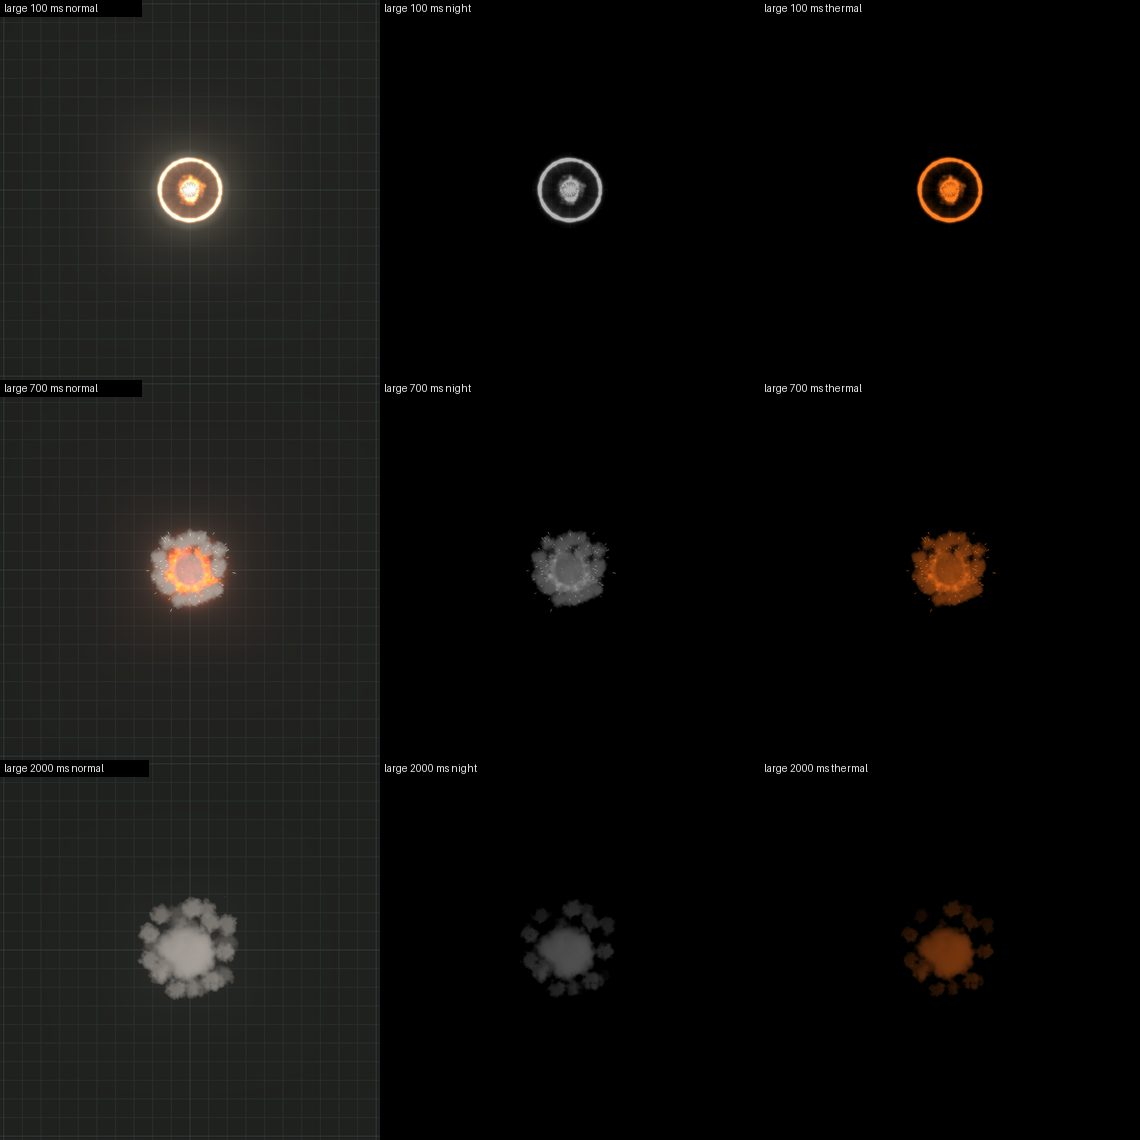
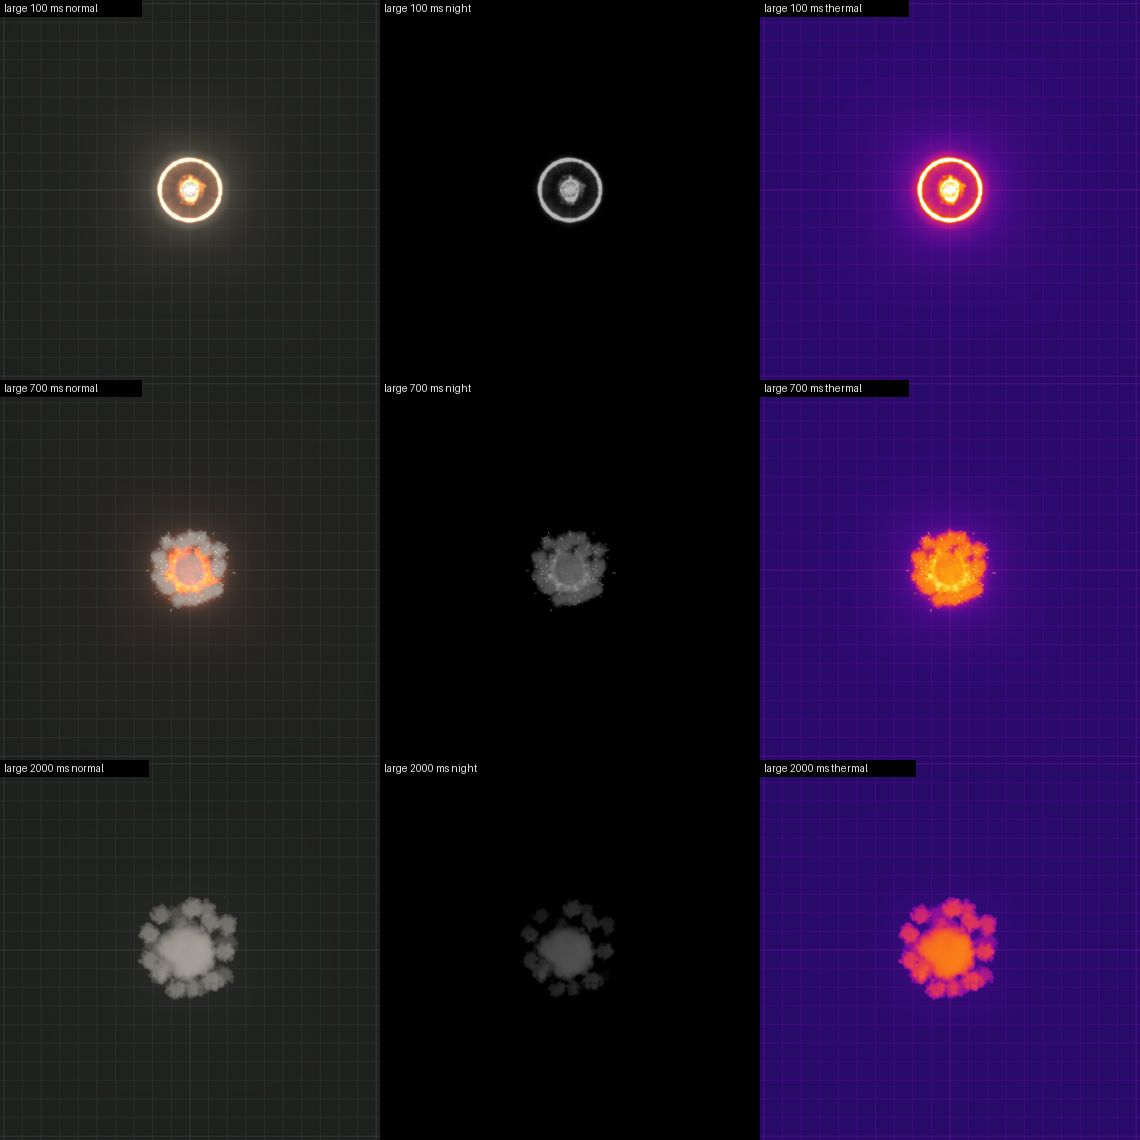
Load scenarios with nuclear finale; FLIR ironbow thermal view
Scenarios: strafe, strafe + M + L, barrage and a 28 s finale ending in the
orbital strike, seeded per shot, with lab.advance() for deterministic frames.
Thermal view now an SVG ironbow colour table on luminance; the game's sepia
chain is kept as 'game thermal'. GitHub Pages ready (.nojekyll).

Claude-Session: https://claude.ai/code/session_01NPKBkaazhQN4ymj5QwUNgW

diff --git a/lab/main.js b/lab/main.js
@@ -6,11 +6,15 @@ import { RenderPass } from 'three/addons/postprocessing/RenderPass.js';
 import { UnrealBloomPass } from 'three/addons/postprocessing/UnrealBloomPass.js';
 import { OutputPass } from 'three/addons/postprocessing/OutputPass.js';
 import { CANDIDATES } from './candidates.js';
+import { SCENARIOS } from './scenarios.js';
+import { mulberry32 } from '../explosions/common.js';
 
 const FILTERS = {
   normal: 'none',
   night: 'grayscale(1) brightness(0.62) contrast(1.7)',
-  thermal: 'grayscale(1) brightness(0.5) contrast(1.6) sepia(1) saturate(5) hue-rotate(-18deg)',
+  // FLIR ironbow: luminance through an SVG colour table (index.html #flir)
+  thermal: 'url(#flir)',
+  'thermal-game': 'grayscale(1) brightness(0.5) contrast(1.6) sepia(1) saturate(5) hue-rotate(-18deg)',
 };
 const GUN_FOV = { rotary: 23.1, bofors: 31.5, howitzer: 46.2 };
 const SIZES = ['small', 'medium', 'large', 'nuclear'];
@@ -174,22 +178,66 @@ function pose(size, tMs, seed = state.seed) {
   return fx;
 }
 
-// Load test: rotary fire keeps 12 smalls alive, plus 1 medium and 1 large.
-const load = { rand: 1000, acc: { small: 0, medium: 0, large: 0 } };
-const LOAD_PERIOD = { small: 0.4 / 12, medium: 1.2, large: 3 };
+// Load scenarios (lab/scenarios.js). Shot positions come from a per-shot seed,
+// so a scenario replays identically.
+const run = { id: null, t: 0, acc: [], fired: [], n: 0 };
+
+function startScenario(id) {
+  Object.assign(run, { id, t: 0, acc: [], fired: [], n: 0 });
+}
+
+function fire(e, t) {
+  const seed = 10000 + run.n++;
+  const [x, z] = e.pos(t, mulberry32(seed));
+  spawn(e.size, x, z, seed);
+}
+
 function runLoad(dt) {
-  const kinds = state.load === 'small' ? ['small'] : ['small', 'medium', 'large'];
-  for (const k of kinds) {
-    load.acc[k] += dt;
-    while (load.acc[k] >= LOAD_PERIOD[k] || (k !== 'small' && !live.some((e) => e.size === k))) {
-      load.acc[k] = Math.max(0, load.acc[k] - LOAD_PERIOD[k]);
-      const r = moduleFor('small') ? load.rand++ : 0;
-      const a = (r * 2.39996) % (Math.PI * 2);
-      const dist = 10 + (r * 7.31) % 50;
-      spawn(k, Math.cos(a) * dist, Math.sin(a) * dist, r);
-      if (k !== 'small') break;
+  const sc = SCENARIOS[state.load];
+  if (!sc) return;
+  if (run.id !== state.load) startScenario(state.load);
+  run.t += dt;
+  sc.emitters.forEach((e, i) => {
+    if (e.at !== undefined) {
+      if (!run.fired[i] && run.t >= e.at) { run.fired[i] = true; fire(e, e.at); }
+      return;
     }
+    if (run.t < (e.from ?? 0) || run.t >= (e.to ?? Infinity)) return;
+    const period = 1 / e.rate;
+    run.acc[i] = (run.acc[i] ?? period) + dt;
+    while (run.acc[i] >= period) {
+      run.acc[i] -= period;
+      const t = run.t - run.acc[i];
+      if (!e.gate || e.gate(t)) fire(e, t);
+    }
+  });
+  if (sc.duration && run.t >= sc.duration) {
+    state.load = 'off';
+    run.id = null;
+    syncButtons();
   }
+}
+
+function reap(dt) {
+  for (let i = live.length - 1; i >= 0; i--) {
+    const e = live[i];
+    e.fx.tick(dt);
+    if (!e.fx.alive()) { e.fx.dispose(); live.splice(i, 1); }
+  }
+}
+
+// Run a scenario forward to `seconds` without rendering, then pause: a
+// deterministic frame of a busy scene for screenshots.
+function advance(id, seconds, step = 1 / 60) {
+  clearAll();
+  state.load = id;
+  startScenario(id);
+  for (let s = 0; s + step / 2 < seconds; s += step) {
+    runLoad(step);
+    reap(step);
+  }
+  state.paused = true;
+  syncButtons();
 }
 
 // ------------------------------------------------------------------ loop
@@ -210,11 +258,7 @@ function frame(now) {
 
   const c0 = performance.now();
   if (state.load !== 'off' && dt > 0) runLoad(dt);
-  for (let i = live.length - 1; i >= 0; i--) {
-    const e = live[i];
-    e.fx.tick(dt);
-    if (!e.fx.alive()) { e.fx.dispose(); live.splice(i, 1); }
-  }
+  reap(dt);
   updateCameras();
   renderPass.camera = activeCam();
   renderer.info.reset();
@@ -244,7 +288,7 @@ function drawHud() {
     `fps ${fps.toFixed(0).padStart(3)}   frame ${mean(samples.frame).toFixed(2)} ms`,
     `work ${mean(samples.cpu).toFixed(2)} ms${state.syncGpu ? ' (GPU synced)' : ' (CPU submit)'}`,
     `draws ${info.render.calls} (fx ${fxDraws})  tris ${info.render.triangles}  lines ${info.render.lines}`,
-    `alive S${counts.small} M${counts.medium} L${counts.large} N${counts.nuclear}`,
+    `alive S${counts.small} M${counts.medium} L${counts.large} N${counts.nuclear}   load ${state.load}${state.load !== 'off' ? ` ${run.t.toFixed(1)} s` : ''}`,
     `geometries ${info.memory.geometries}  programs ${info.programs.length}`,
     state.view === 'top'
       ? `seat ${state.gun} ${GUN_FOV[state.gun]}°  frame ${frameH.toFixed(0)} m  ${pxPerM.toFixed(2)} px/m`
@@ -310,7 +354,7 @@ h2('Seed');
   r.append(ui.seed, fixed);
 }
 
-group('View filter  (1 2 3)', 'filter', [['normal', 'normal'], ['night', 'night'], ['thermal', 'thermal']]);
+group('View filter  (1 2 3 4)', 'filter', [['normal', 'normal'], ['night', 'night'], ['thermal', 'thermal FLIR'], ['thermal-game', 'game thermal']]);
 group('Camera  (T G)', 'view', [['top', 'seat 340 m'], ['ground', 'ground 2 m']]);
 group('Gun zoom (seat)', 'gun', [['rotary', 'rotary 23°'], ['bofors', 'bofors 32°'], ['howitzer', '105 46°']]);
 group('Ground distance  (drag to look)', 'groundDist', [[30, '30 m'], [80, '80 m'], [150, '150 m'], [300, '300 m']]);
@@ -353,7 +397,11 @@ function showMeta() {
   }
 }
 
-group('Load test', 'load', [['off', 'off'], ['small', '12 S'], ['full', '12 S + M + L']], () => { if (state.load === 'off') clearAll(); });
+group('Load test', 'load', [['off', 'off'], ...Object.entries(SCENARIOS).map(([id, sc]) => [id, sc.label])], () => {
+  run.id = null;
+  state.paused = false;
+  if (state.load === 'off') clearAll();
+});
 group('Bloom tier', 'bloomTier', [['desktop', 'desktop'], ['phone', 'phone ½ mips']], resize);
 group('Render scale', 'renderScale', [[1, '1'], [0.5, '0.5']], resize);
 group('Planet', 'planetR', [[0, 'flat'], [753, 'R 753 m']], clearAll);
@@ -390,8 +438,8 @@ async function measure() {
   };
   report('measuring… (≈14 s)');
   const base = await sample('off');
-  const small = await sample('small');
-  const full = await sample('full');
+  const small = await sample('bench-small');
+  const full = await sample('bench-full');
   Object.assign(state, saved);
   clearAll();
   syncButtons();
@@ -454,14 +502,14 @@ canvas.addEventListener('pointerup', (e) => {
 });
 addEventListener('keydown', (e) => {
   if (e.target.tagName === 'INPUT') return;
-  const map = { 1: ['filter', 'normal'], 2: ['filter', 'night'], 3: ['filter', 'thermal'], t: ['view', 'top'], g: ['view', 'ground'] };
+  const map = { 1: ['filter', 'normal'], 2: ['filter', 'night'], 3: ['filter', 'thermal'], 4: ['filter', 'thermal-game'], t: ['view', 'top'], g: ['view', 'ground'] };
   if (map[e.key]) state[map[e.key][0]] = map[e.key][1];
   if (e.key === ' ') { state.paused = !state.paused; e.preventDefault(); }
   syncButtons();
 });
 
 // Automation hooks for screenshots and scripted checks.
-window.lab = { state, spawn, pose, clearAll, measure, leakTest, syncButtons, resize, renderer, live };
+window.lab = { state, spawn, pose, advance, clearAll, measure, leakTest, syncButtons, resize, renderer, live, run };
 
 showMeta();
 syncButtons();

diff --git a/lab/scenarios.js b/lab/scenarios.js
@@ -1,0 +1,66 @@
+// Load-test scenarios. An emitter fires a size either at a rate (shots per
+// second, between `from` and `to`, optionally gated into bursts) or once `at`
+// a time. `pos(t, rand)` returns the impact [x, z] for a shot fired at t; rand
+// is seeded per shot, so a scenario replays identically.
+
+const jitter = (r, m) => (r() + r() - 1) * m;
+
+// An aim point that drifts like a gunner tracking along the ground.
+const track = (ax, fx, az, fz, phase = 0, spread = 2.5) => (t, r) => [
+  ax * Math.sin(fx * t + phase) + jitter(r, spread),
+  az * Math.sin(fz * t + phase * 1.7) + jitter(r, spread),
+];
+const scatter = (mx, mz) => (t, r) => [jitter(r, mx), jitter(r, mz)];
+const burst = (on, period, offset = 0) => (t) => ((t + offset) % period) < on;
+const origin = () => [0, 0];
+
+const rotary = (extra = {}) => ({ size: 'small', rate: 30, pos: track(50, 0.45, 35, 0.7), gate: burst(1.4, 2.0), ...extra });
+const rotaryB = (extra = {}) => ({ size: 'small', rate: 30, pos: track(45, 0.38, 40, 0.55, 2.4), gate: burst(1.1, 1.7, 0.6), ...extra });
+const bofors = (rate, extra = {}) => ({ size: 'medium', rate, pos: track(40, 0.3, 30, 0.5, 2.0, 8), gate: burst(1.5, 2.5), ...extra });
+const howitzer = (every, extra = {}) => ({ size: 'large', rate: 1 / every, pos: scatter(55, 40), ...extra });
+
+export const SCENARIOS = {
+  'bench-small': {
+    label: '12 S',
+    note: 'benchmark: 12 smalls alive',
+    emitters: [{ size: 'small', rate: 30, pos: scatter(50, 50) }],
+  },
+  'bench-full': {
+    label: '12 S + M + L',
+    note: 'benchmark: the deciding load',
+    emitters: [
+      { size: 'small', rate: 30, pos: scatter(50, 50) },
+      { size: 'medium', rate: 1 / 1.2, pos: scatter(40, 40) },
+      { size: 'large', rate: 1 / 3, pos: scatter(40, 40) },
+    ],
+  },
+  strafe: {
+    label: 'strafe',
+    note: 'one rotary gun walking bursts along the ground',
+    emitters: [rotary()],
+  },
+  'strafe-ml': {
+    label: 'strafe + M + L',
+    note: 'rotary bursts, Bofors pairs, a 105 every 3 s',
+    emitters: [rotary(), bofors(2), howitzer(3)],
+  },
+  barrage: {
+    label: 'barrage',
+    note: 'two rotary streams, Bofors 4/s, a 105 every 1.5 s',
+    emitters: [rotary(), rotaryB(), bofors(4), howitzer(1.5)],
+  },
+  finale: {
+    label: 'finale → nuke',
+    note: 'strafe, then + M + L, then barrage, guns stop, orbital strike',
+    duration: 28,
+    emitters: [
+      rotary({ to: 16 }),
+      bofors(2, { from: 5, to: 16 }),
+      howitzer(3, { from: 6, to: 16 }),
+      rotaryB({ from: 12, to: 16 }),
+      bofors(2, { from: 12, to: 16, gate: burst(1.2, 2.0, 1.0) }),
+      howitzer(3, { from: 13.5, to: 16 }),
+      { size: 'nuclear', at: 17, pos: origin },
+    ],
+  },
+};

diff --git a/index.html b/index.html
@@ -36,6 +36,17 @@
 </script>
 </head>
 <body>
+<svg width="0" height="0" style="position:absolute" aria-hidden="true">
+  <!-- FLIR ironbow thermal: luminance (CSS grayscale weights) through a colour table -->
+  <filter id="flir" color-interpolation-filters="sRGB">
+    <feColorMatrix type="matrix" values="0.2126 0.7152 0.0722 0 0  0.2126 0.7152 0.0722 0 0  0.2126 0.7152 0.0722 0 0  0 0 0 1 0"/>
+    <feComponentTransfer>
+      <feFuncR type="table" tableValues="0.020 0.114 0.290 0.541 0.761 0.910 0.973 0.988 0.992 1.000 1.000"/>
+      <feFuncG type="table" tableValues="0.008 0.039 0.043 0.059 0.114 0.251 0.439 0.639 0.827 0.953 1.000"/>
+      <feFuncB type="table" tableValues="0.102 0.369 0.541 0.604 0.494 0.290 0.118 0.063 0.227 0.604 1.000"/>
+    </feComponentTransfer>
+  </filter>
+</svg>
 <div id="app">
   <div id="stage"><canvas id="c"></canvas><div id="hud"></div></div>
   <aside id="panel"></aside>

diff --git a/tools/sheet.py b/tools/sheet.py
@@ -45,4 +45,15 @@ if ground:
             label(cell, q.stem)
             sheet.paste(cell, (c * GW, r * GH))
     sheet.save(src / 'sheet-ground.png')
+scenes = sorted(src.glob('scene-*-normal.png'))
+if scenes:
+    SW, SH = 480, 270
+    sheet = Image.new('RGB', (SW * 3, SH * len(scenes)), (20, 20, 20))
+    for r, p in enumerate(scenes):
+        for c, f in enumerate(FILTERS):
+            q = src / p.name.replace('-normal', f'-{f}')
+            cell = Image.open(q).convert('RGB').resize((SW, SH), Image.LANCZOS)
+            label(cell, q.stem)
+            sheet.paste(cell, (c * SW, r * SH))
+    sheet.save(src / 'sheet-scenes.png')
 print('\n'.join(sorted(p.name for p in src.glob('sheet-*.png'))))

diff --git a/README.md b/README.md
@@ -19,11 +19,20 @@ The lab has:
 - a seat camera 340 m up, using each gun's zoom: rotary 23.1°, Bofors 31.5°, 105 mm 46.2°
 - a ground camera at 2 m eye height, 30 to 300 m out; drag to look around
 - the game's bloom (UnrealBloom 0.3 / 0.5 / 0.2), with a phone tier that uses half-resolution mips
-- the normal, night and thermal CSS filters (keys `1` `2` `3`)
+- the normal and night CSS filters, plus two thermal views (keys `1` to `4`):
+  - **thermal FLIR** (the default): an ironbow palette running from indigo through magenta, orange and yellow to white. It's an SVG filter, `url(#flir)` in `index.html`, that converts to grayscale and remaps brightness through a colour table.
+  - **game thermal**: the brief's original sepia chain, kept for comparison
 - a flat ground or a 753 m planet
 - a candidate list, spawn buttons, click-to-spawn and a typed seed
 - time scale, pause, step and pose-at-ms
-- a load test (12 small, or 12 small + medium + large)
+- load scenarios (`lab/scenarios.js`):
+  - `12 S` and `12 S + M + L`: the measurement benchmarks
+  - `strafe`: rotary bursts walking along the ground
+  - `strafe + M + L`
+  - `barrage`: two rotary streams, Bofors 4/s, a 105 every 1.5 s
+  - `finale`: a 28 s sequence that escalates, stops firing, and ends with the orbital strike
+
+  Every shot position comes from its own seed, and `lab.advance(id, seconds)` jumps to any moment of a scenario.
 - a cost measurement and a leak test
 
 `window.lab` exposes the same controls to scripts.
@@ -85,6 +94,10 @@ The contract tests need no GPU. They check:
 - no globals
 
 `shoot.mjs` poses every size at fixed times in all three filters, top-down and from the ground. It also runs the leak test and, with `--measure`, the cost measurement at 1× and 4× CPU throttle.
+
+## Thermal view for the game
+
+To use the FLIR look in the game, copy the `<svg><filter id="flir">` block from `index.html` into the game page, then set the thermal view's filter to `url(#flir)`. That replaces the CSS chain. Its cost hasn't been measured: SVG filters on a WebGL canvas can be slower than the built-in CSS filter functions on some browsers. If it's too slow on phones, the fallback is the same colour table in the bloom composer's final shader pass.
 
 ## Known gaps
 
